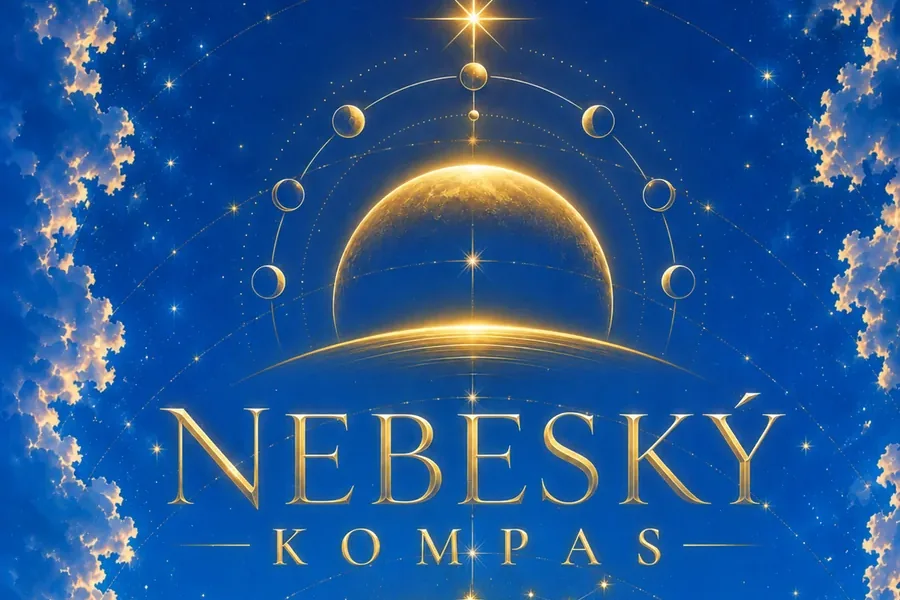
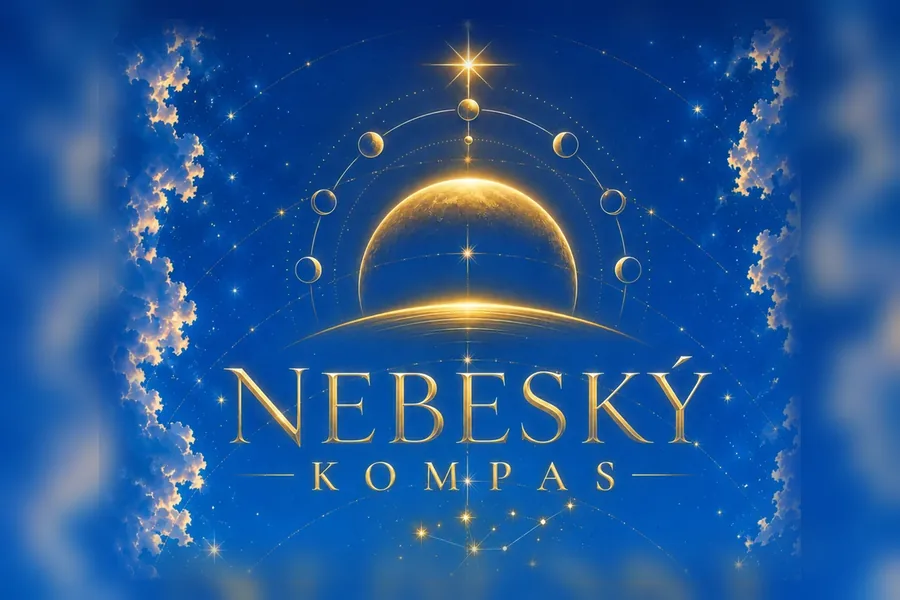
Spirit Lab: menší emblém na kartě Kompasu

diff --git a/oaza-web/spirit-lab.html b/oaza-web/spirit-lab.html
@@ -144,7 +144,7 @@ footer a{color:var(--krem)}
 
 <section class="mrizka" aria-label="Aplikace">
   <article class="karta">
-    <div class="obr"><img src="/img/spirit-lab/kompas.webp?v=2" width="900" height="600" alt="Nebeský kompas"></div>
+    <div class="obr"><img src="/img/spirit-lab/kompas.webp?v=3" width="900" height="600" alt="Nebeský kompas"></div>
     <div class="telo">
       <h2>Nebeský kompas</h2><div class="pod">tvůj hvězdný kalendář</div>
       <p>Každý den přečtený z&nbsp;oblohy: kalendář s&nbsp;barvou dne, úkazy na rok dopředu, hvězdné nebe ve 3D a&nbsp;horoskop podle tvé mapy narození.</p>
